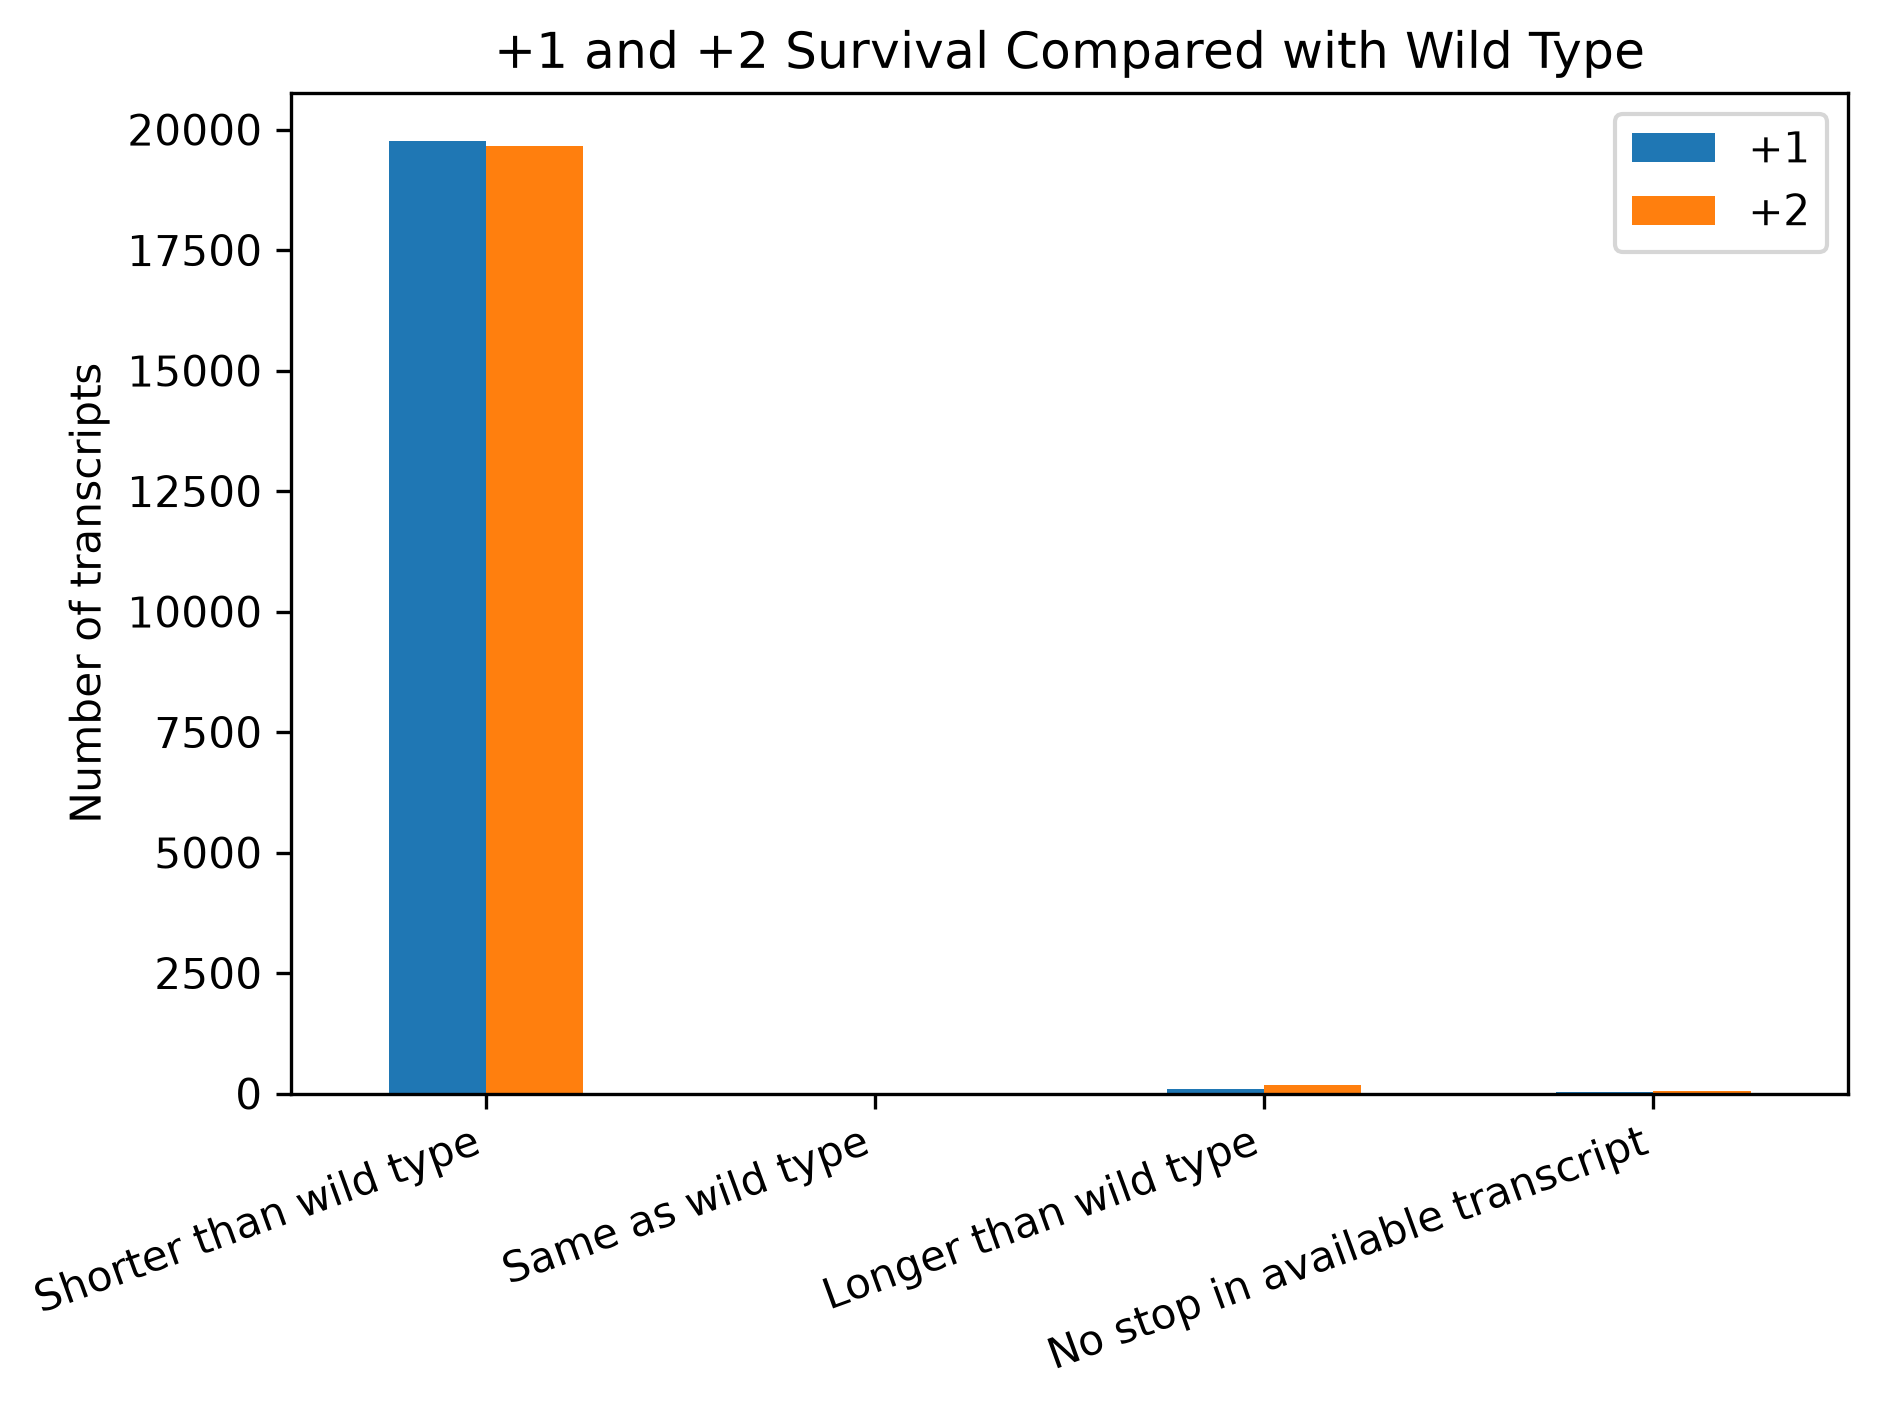
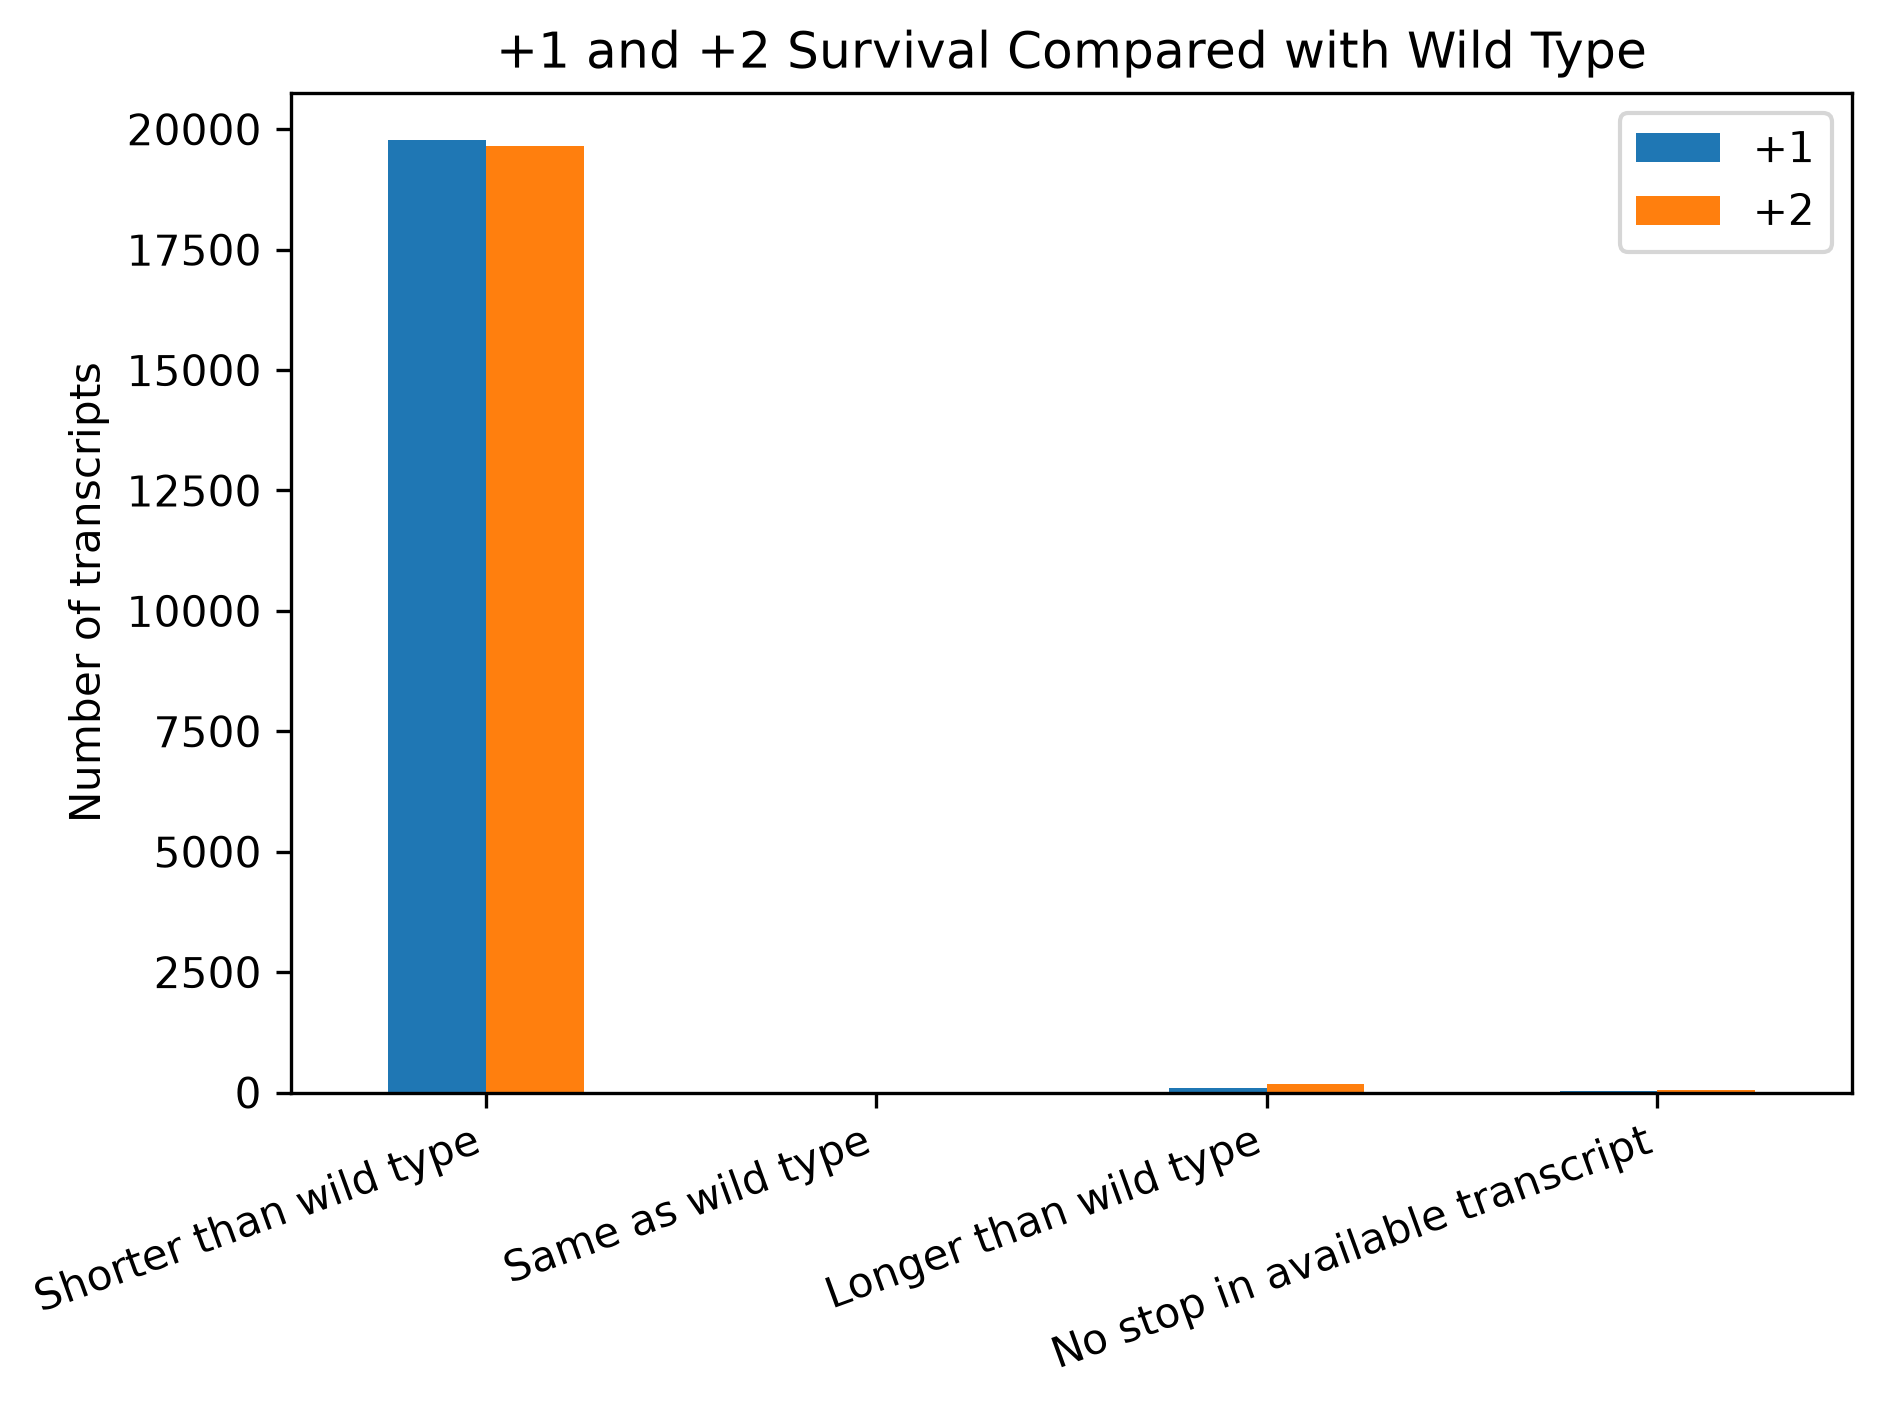
wild type statistic test compared to +1 and +2

diff --git a/scripts/test_plus1_plus2_stop_difference.py b/scripts/test_plus1_plus2_stop_difference.py
@@ -63,3 +63,41 @@ difference = plus2 - plus1
 print("\nDifference (+2 - +1):")
 print("Mean difference:", difference.mean())
 print("Median difference:", difference.median())
+
+# Each wild-type comparison uses the matched positions in its own CSV.
+wildtype_results = pd.read_csv("data/frameshift_vs_wildtype.csv")
+wildtype_column = "wildtype_stop_position"
+p_values = {"+1 vs. +2": p_value}
+
+for frame, stop_column in (
+    ("+1", "plus1_first_stop_position"),
+    ("+2", "plus2_first_stop_position"),
+):
+    label = f"{frame} vs. wild type"
+    matched = wildtype_results.dropna(subset=[wildtype_column, stop_column])
+    differences = matched[stop_column] - matched[wildtype_column]
+
+    print(f"\n{label}")
+    print("Transcripts included:", len(matched))
+    print("Earlier stops:", (differences < 0).sum())
+    print("Same stop position:", (differences == 0).sum())
+    print("Later stops:", (differences > 0).sum())
+
+    if differences.empty or not differences.ne(0).any():
+        p_values[label] = None
+        continue
+
+    result = wilcoxon(differences, alternative="two-sided")
+    p_values[label] = result.pvalue
+    print("Wilcoxon statistic:", result.statistic)
+
+print("\nP-value summary")
+for label, comparison_p in p_values.items():
+    if comparison_p is None:
+        print(f"{label}: no nonzero paired differences to test")
+    elif comparison_p < 0.05:
+        print(f"{label}: p < 0.05 (statistically significant)")
+    elif comparison_p > 0.05:
+        print(f"{label}: p > 0.05 (not statistically significant)")
+    else:
+        print(f"{label}: p = 0.05 (does not meet p < 0.05)")
